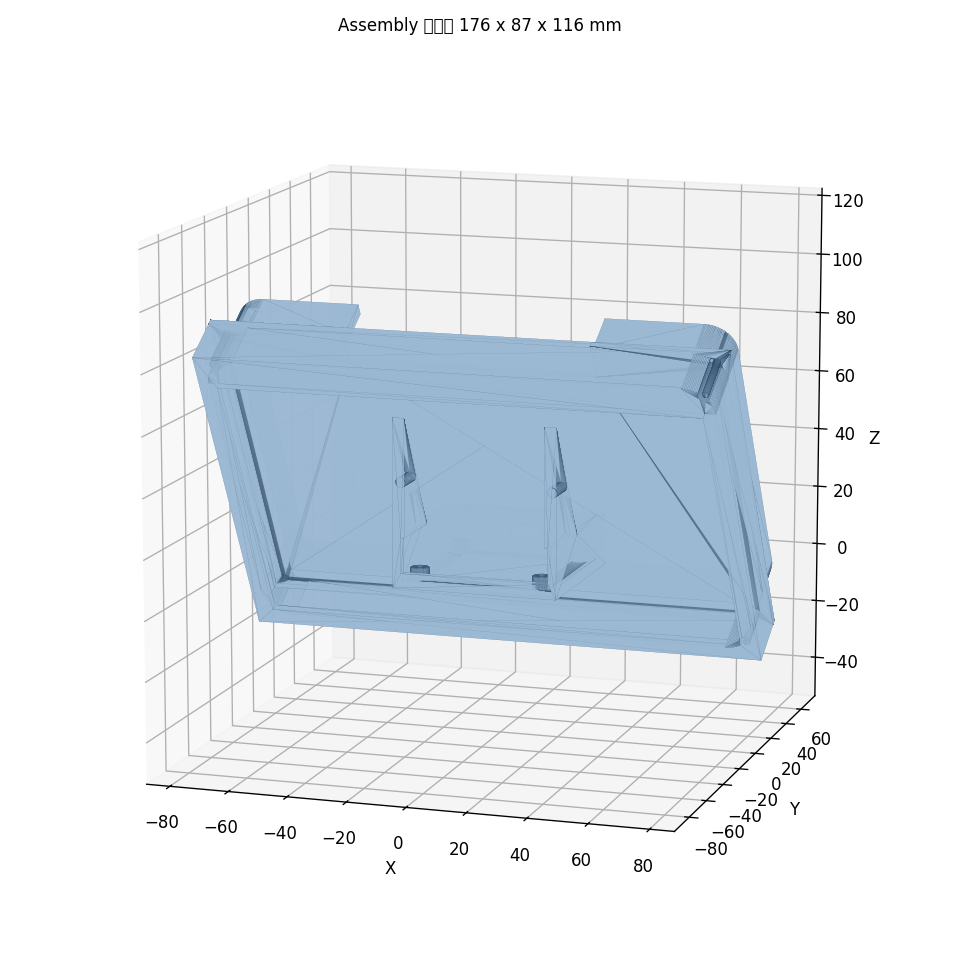
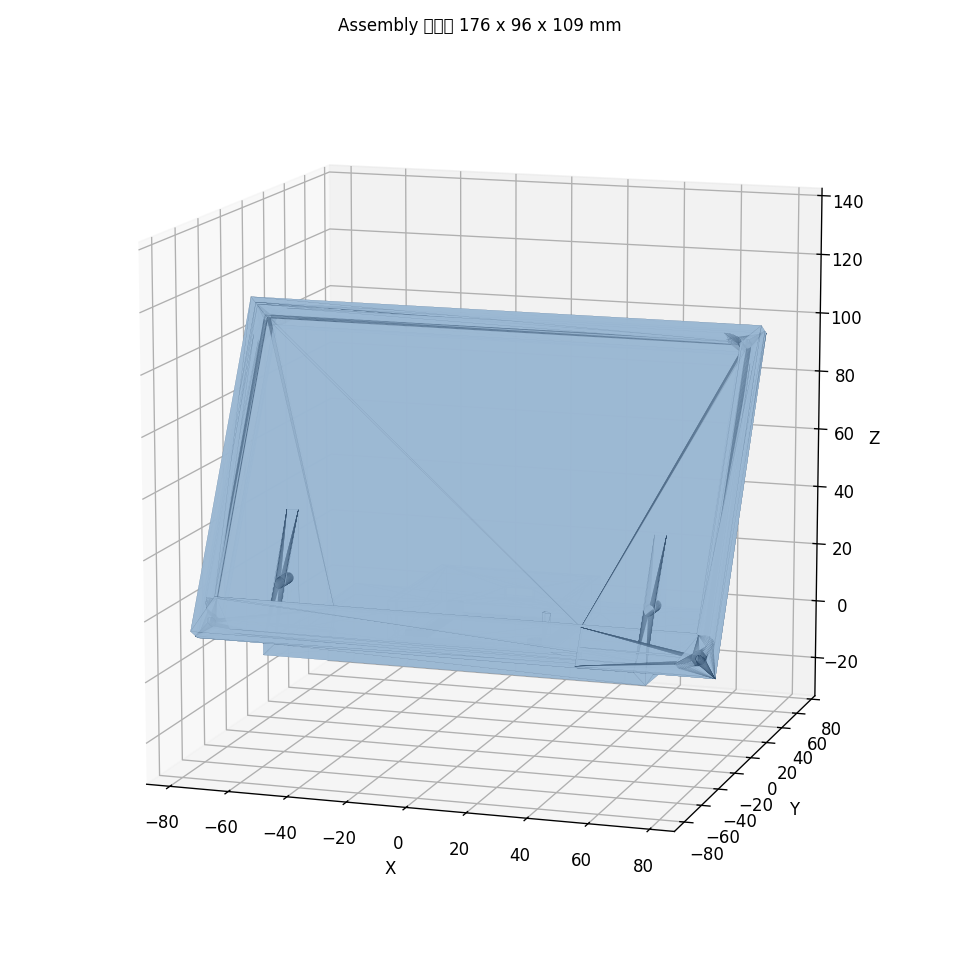
[feat] 外壳v2: 加宽底座/减薄屏框后盖/修正斜墙朝向与装配
- 底座加宽大扁平脚板 130x90, 斜墙外移到±63 横撑176mm宽屏(稳定性)
- 背腔减薄 17->5mm: 前框总深 19.2->7.2, 后盖 17.25->5.25
- 修正斜墙三角朝向: 斜面朝-Y+Z, 屏朝观察者并向后倾(此前朝后/30°均已纠正)
- 重写make_assembly: 屏框背面共面贴合60°斜墙, 屏底落铰接点, Z_min=0不破桌面
- 同步更新设计文档

diff --git a/cad/enclosure.py b/cad/enclosure.py
@@ -71,11 +71,11 @@ WINDOW_H = AA_H + WINDOW_MARGIN           # 98.42
 # 视窗中心相对玻璃/屏框中心上移 = (BORDER_BOTTOM - BORDER_TOP)/2
 WINDOW_OFFSET_Y = (BORDER_BOTTOM - BORDER_TOP) / 2.0   # 3.15
 
-# bezel 总深 (前壁 + 玻璃腔 + 泡棉 + 后盖嵌入)
-# 设计目标整体深度 ~18-20mm: 前面板 + 较深托盘背腔(容玻璃/泡棉/后盖凸台并提供刚性)
+# bezel 总深 (前壁 + 玻璃腔 + 泡棉 + 薄后盖嵌入)
+# 减薄: 背腔只需容 玻璃1.25 + 泡棉0.5 + 薄后盖凸台~3 => 腔深 5mm, 屏框总深 ~7.2mm.
 FRONT_WALL_T = LIP + 1.0                  # 视窗处前面板厚 (唇 + 余量) = 2.2
-BACK_LIP_DEPTH = 17.0                     # 背面托盘腔深度
-BEZEL_DEPTH = FRONT_WALL_T + BACK_LIP_DEPTH   # ~19.2 mm
+BACK_LIP_DEPTH = 5.0                      # 背面托盘腔深度 (减薄: 17->5)
+BEZEL_DEPTH = FRONT_WALL_T + BACK_LIP_DEPTH   # ~7.2 mm
 
 # 后盖
 BC_CAV_INSET = FIT_GAP                    # 后盖嵌入背腔的配合间隙
@@ -94,15 +94,19 @@ BOSS_Y = BEZEL_OUT_H / 2 - CORNER_OFFSET
 # 玻璃腔四角倒圆半径(为角立柱让位)
 GLASS_CAV_CORNER_R = CORNER_PILLAR + 1.0
 
-# 底座 (楔形)
+# 底座 (楔形): 中央 PCB 仓核心 + 下方宽大扁平底脚板(稳定) + 两侧外移斜墙
 BASE_INNER_W = PCB + 2 * 0.5              # 50 + 1.0 = 51.0 (四周 0.5 间隙)
 BASE_INNER_D = PCB + 2 * 0.5             # 沿 Y 方向同
 BASE_WALL = WALL
 BASE_FLOOR_T = 2.0
-BASE_OUT_W = BASE_INNER_W + 2 * BASE_WALL    # 56.0 量级
-BASE_OUT_D = BASE_INNER_D + 2 * BASE_WALL    # 56.0 量级
+BASE_OUT_W = BASE_INNER_W + 2 * BASE_WALL    # 中央核心盒 56 量级
+BASE_OUT_D = BASE_INNER_D + 2 * BASE_WALL    # 中央核心盒 56 量级
 BASE_INNER_H = CAVITY_CLEAR              # 内腔净高 15
-BASE_WALL_H = BASE_FLOOR_T + BASE_INNER_H    # 外壁总高 17
+BASE_WALL_H = BASE_FLOOR_T + BASE_INNER_H    # 核心盒外壁总高 17
+# 宽大扁平底脚板 (提升稳定性, 横跨支撑 176mm 宽屏)
+BASE_FOOT_W = 130.0                       # 底脚板宽 (斜墙将外移到此宽度边缘)
+BASE_FOOT_D = 90.0                        # 底脚板深 (抗后倾)
+BASE_FOOT_T = 4.0                         # 底脚板厚
 
 # PCB M3 螺柱
 M3_STANDOFF_D = 6.0
@@ -229,7 +233,11 @@ def make_back_cover():
 # ============================================================
 def make_base():
     with BuildPart() as bs:
-        # 1) 外盒 (实心) 高 BASE_WALL_H
+        # 0) 宽大扁平底脚板 (稳定footprint, 横跨支撑屏宽; 低矮不挡 +Y Type-C)
+        Box(BASE_FOOT_W, BASE_FOOT_D, BASE_FOOT_T,
+            align=(Align.CENTER, Align.CENTER, Align.MIN))
+
+        # 1) 中央 PCB 核心盒 (实心) 高 BASE_WALL_H, 坐在底脚板上(z=0 起, 与脚板并集)
         Box(BASE_OUT_W, BASE_OUT_D, BASE_WALL_H,
             align=(Align.CENTER, Align.CENTER, Align.MIN))
 
@@ -274,28 +282,28 @@ def make_base():
         #    竖直边沿 +Z 升 GUSSET_HEIGHT; 斜边为 60度安装面, bezel 背面贴此.
         #    Plane.YZ 上: 草图局部 X = 全局 Y, 草图局部 Y = 全局 Z.
         from build123d import Polygon
-        gx = BASE_OUT_W / 2 - GUSSET_T / 2
-        seam_z0 = BASE_WALL_H
-        front_y = -BASE_OUT_D / 2
-        # 安装面(斜边 B->C)与水平夹角 a 满足 tan(a)=GUSSET_HEIGHT/run.
-        # 要 a=ANGLE_DEG(60度) => run = 竖直高 / tan(60). 斜面法线 nz=cos(60)=0.5,
-        # 校验用 a=arccos(|nz|). (前两版分别误用 1/tan 与 tan, 此为正解.)
+        gx = BASE_FOOT_W / 2 - GUSSET_T / 2      # 外移到底脚板宽边 (±63)
+        seam_z0 = BASE_FOOT_T                      # 斜墙起于底脚板顶面
+        front_y = -BASE_FOOT_D / 2                 # 屏铰接在底脚板前缘(-Y)
+        # 安装面(斜边 A->C)与水平夹角 a 满足 tan(a)=GUSSET_HEIGHT/run, a=60 => run=H/tan(60).
+        # 朝向修正: 直角在后下(B), 斜面 A(前下)->C(后上) 朝 -Y+Z (观察者-上), 屏向后倾且朝 -Y.
+        #   A=(front_y, z0) 前下铰接;  B=(front_y+run, z0) 后下直角;  C=(front_y+run, z0+H) 后上.
+        #   斜面外法线 (0,-sin60,cos60)=(0,-0.866,0.5): 朝 -Y(观察者)与 +Z. 校验 a=arccos(|nz|)=60.
         run = GUSSET_HEIGHT / math.tan(math.radians(ANGLE_DEG))  # 水平投影
         for sx in (gx, -gx):
             with BuildSketch(Plane.YZ.offset(sx)) as sk:
-                # 注意: Plane.YZ 局部坐标 (u=全局Y, v=全局Z), 但 +X 法线方向.
+                # Plane.YZ 局部 (u=全局Y, v=全局Z)
                 Polygon(
-                    (front_y, seam_z0),
-                    (front_y + run, seam_z0),
-                    (front_y, seam_z0 + GUSSET_HEIGHT),
+                    (front_y, seam_z0),               # A 前下(铰接)
+                    (front_y + run, seam_z0),         # B 后下(直角)
+                    (front_y + run, seam_z0 + GUSSET_HEIGHT),  # C 后上
                     align=None,
                 )
             extrude(amount=GUSSET_T / 2, both=True, mode=Mode.ADD)
 
-        # 7) 接缝 M3 横穿螺丝孔 (沿 Y 方向横穿两片斜墙), 两颗位于斜墙中部.
-        #    放在斜面中点附近, 沿 +Y 钻穿.
+        # 7) 接缝 M3 横穿螺丝孔 (沿 Y 横穿两片斜墙), 位于斜面中部.
         seam_hole_z = seam_z0 + GUSSET_HEIGHT * 0.45
-        seam_hole_y = front_y + run * 0.35
+        seam_hole_y = front_y + run * 0.55
         for sx in (gx, -gx):
             with Locations(Pos(sx, seam_hole_y, seam_hole_z) * Rot(90, 0, 0)):
                 Cylinder(M3_SEAM_D / 2, GUSSET_T * 3,
@@ -309,25 +317,27 @@ def make_base():
 # 装配体: 60 度仰角姿态
 # ============================================================
 def make_assembly(bezel, back_cover, base):
-    # base 平放, z=0 桌面 (局部坐标已是)
+    from build123d import Vector
     base_a = Pos(0, 0, 0) * base
 
-    # bezel: 屏面与水平成 60 度, 背面贴靠斜墙. 背腔朝下(向斜墙).
-    # bezel 局部: 前面 z=0, 背面 z=BEZEL_DEPTH, +Y 向上(屏顶).
-    # 目标: 绕 X 轴旋转, 使屏面法线(+z) 与水平成 60 度.
-    # 斜墙安装面在 base 顶 -Y 侧后倾. bezel 背面贴上去.
-    tilt = ANGLE_DEG  # 屏面仰角
-    # 绕 X 旋转 -tilt: 使屏面(局部 -Z 外法线)与水平成 tilt=60 度仰角.
-    # (修正: 此前用 -(90-tilt)=-30 度, 屏只立到 30 度)
-    rot = Rot(-tilt, 0, 0)
-    # 抬升到斜墙位置: 放在 base 顶 -Y 侧上方
-    lift_z = BASE_WALL_H + 10
-    shift_y = -BASE_OUT_D / 2 + 5
-    bezel_a = Pos(0, shift_y, lift_z) * rot * bezel
+    # 斜墙几何 (须与 make_base 一致): 铰接点 A 在底脚板前缘.
+    run = GUSSET_HEIGHT / math.tan(math.radians(ANGLE_DEG))
+    seam_z0 = BASE_FOOT_T
+    front_y = -BASE_FOOT_D / 2
+    A = Vector(0, front_y, seam_z0)            # 铰接点(屏底后角落点)
 
-    # back_cover 贴 bezel 背面 (沿 bezel 局部 +z 偏移 BEZEL_DEPTH)
+    # 旋转 R: 使屏面朝 -Y+Z(观察者-上), 屏顶 +Y 指向斜面上坡, 屏底在 A.
+    # 推导: local+Y->(0,0.5,0.866)上坡, local-Z(屏面)->(0,-0.866,0.5)法线 => R=Rot(-120,0,0)*Rot(0,0,180).
+    R = Rot(-120, 0, 0) * Rot(0, 0, 180)
+
+    # 把 bezel 局部"屏底-背面"角点 (0,-H/2, BEZEL_DEPTH) 旋转后对到 A, 解出平移 T.
+    # (Location*Vector 不支持; 用 (R*Pos(p)).position 得到旋转后的点)
+    p_rot = (R * Pos(0, -BEZEL_OUT_H / 2, BEZEL_DEPTH)).position
+    T = A - p_rot
+
+    bezel_a = Pos(T.X, T.Y, T.Z) * R * bezel
     bc_local = Pos(0, 0, BEZEL_DEPTH - BACK_COVER_PLATE_T) * back_cover
-    back_a = Pos(0, shift_y, lift_z) * rot * bc_local
+    back_a = Pos(T.X, T.Y, T.Z) * R * bc_local
 
     asm = Compound(label="InkPulse_assembly",
                    children=[base_a, bezel_a, back_a])

diff --git a/docs/superpowers/specs/2026-06-03-inkpulse-enclosure-design.md b/docs/superpowers/specs/2026-06-03-inkpulse-enclosure-design.md
@@ -42,18 +42,18 @@
 - 玻璃容腔：170.20×111.20，单边间隙 0.4mm（实装容差）。
 - **视窗开口**：163.20 × 97.92 + 0.5mm 余量；**向上偏置**——上边框 ~3.0 / 下边框（FPC 侧）~9.3 / 左右 ~3.0mm。视窗中心相对玻璃中心**上移 ≈ 3.15mm**（= (9.79−3.49)/2）。
 - 前框唇边压黑边（不碰 AA），唇厚 1.2mm。
-- 壁厚 2.5mm；屏框外形约 **175.6 × 116.6mm**。
+- 壁厚 2.5mm；屏框外形约 **176 × 117mm**。
+- **背腔减薄至 5mm**（仅容玻璃 1.25 + 泡棉 0.5 + 薄后盖凸台）→ 前框总深 **7.2mm**（原 19.2），后盖总厚 **5.25mm**（原 17.25）。
 - 后盖：与屏框外形齐平，4× M2.5 自攻螺丝压向前框；玻璃背面垫 0.5mm 泡棉。
 - 后盖 FPC 过线槽：**宽 84 × 深 13mm**，位于底部长边中央（对齐 FPC 79.9mm 宽 + 余量）。PI 补强段直出、软段折弯下行。
 
-## 4. 底座（楔形 + PCB 仓）
+## 4. 底座（楔形 + PCB 仓 + 宽大底脚板）
 
-- 内腔容 50×50 PCB，四周间隙 0.5mm。
-- 4× M3 打印螺柱（boss），柱心 (±21, ±21)（见 §5），**柱高 4mm**（PCB 离内底 4mm）。
-- 与前框在 **60° 斜接缝**处用 2× M3 螺丝拼接。
-- **后壁 Type-C 开口**：10 × 4mm（含 0.5 容差 + 倒角），开口中心离内底 ≈ **7.3mm**（= 4 + 1.6 + 1.7）。
-- 内腔净高 **15mm**（容 ≤12mm 顶面元件 + 余量）。
-- 顶部开口/线槽对位 (0, −22) 的显示排座，承接屏框下来的 FPC。
+- **中央 PCB 核心盒**：内腔容 50×50 PCB，四周间隙 0.5mm；4× M3 打印螺柱（boss），柱心 (±21, ±21)，柱高 4mm；内腔净高 15mm。
+- **后壁 Type-C 开口**：10 × 4mm（含 0.5 容差 + 倒角），中心离内底 ≈ **7.3mm**；Type-C 朝 +Y（背向用户）。底脚板低矮（4mm）不遮挡插拔。
+- **宽大扁平底脚板（稳定性）**：**130 (W) × 90 (D) × 4mm**，横跨支撑 176mm 宽屏、抗后倾。屏重心水平投影（Y≈−16）落在脚板内 → 不倾倒。
+- **两片 60° 斜墙（gusset）**：外移到脚板宽边 **±63**，横撑屏宽；起于脚板顶。**斜面朝 −Y+Z（朝观察者-上），使屏朝 −Y 观察者、向后倾**（朝向经校验：法线 ny=−0.87, nz=+0.50, arccos=60°）。2× M3 接缝螺丝横穿斜墙。
+- 顶部线槽对位显示排座，承接屏框下来的 FPC。
 
 ## 5. PCB 机械接口约定 v1（外壳基准，PCB 跟随）
 
@@ -102,10 +102,14 @@ FPC_W=79.90  FPC_EXPOSED=12.50
 WALL=2.5  LIP=1.2  FIT_GAP=0.4  FOAM_T=0.5
 WINDOW_MARGIN=0.5
 ANGLE_DEG=60
+BACK_LIP_DEPTH=5.0        # 背腔深(减薄) -> 前框总深~7.2, 后盖~5.25
 # 底座/PCB
 PCB=50.0  PCB_T=1.6  STANDOFF_H=4.0
 HOLE_D=3.2  HOLE_INSET=4.0
 TYPEC_W=10.0  TYPEC_H=4.0  TYPEC_PORT_Z=7.3
 FPC_CONN_Y=-22.0
 CAVITY_CLEAR=15.0
+# 宽大底脚板 + 斜墙
+BASE_FOOT_W=130.0  BASE_FOOT_D=90.0  BASE_FOOT_T=4.0
+GUSSET_HEIGHT=40.0  GUSSET_T=4.0   # 斜墙在 ±(FOOT_W/2-GUSSET_T/2)=±63
 ```